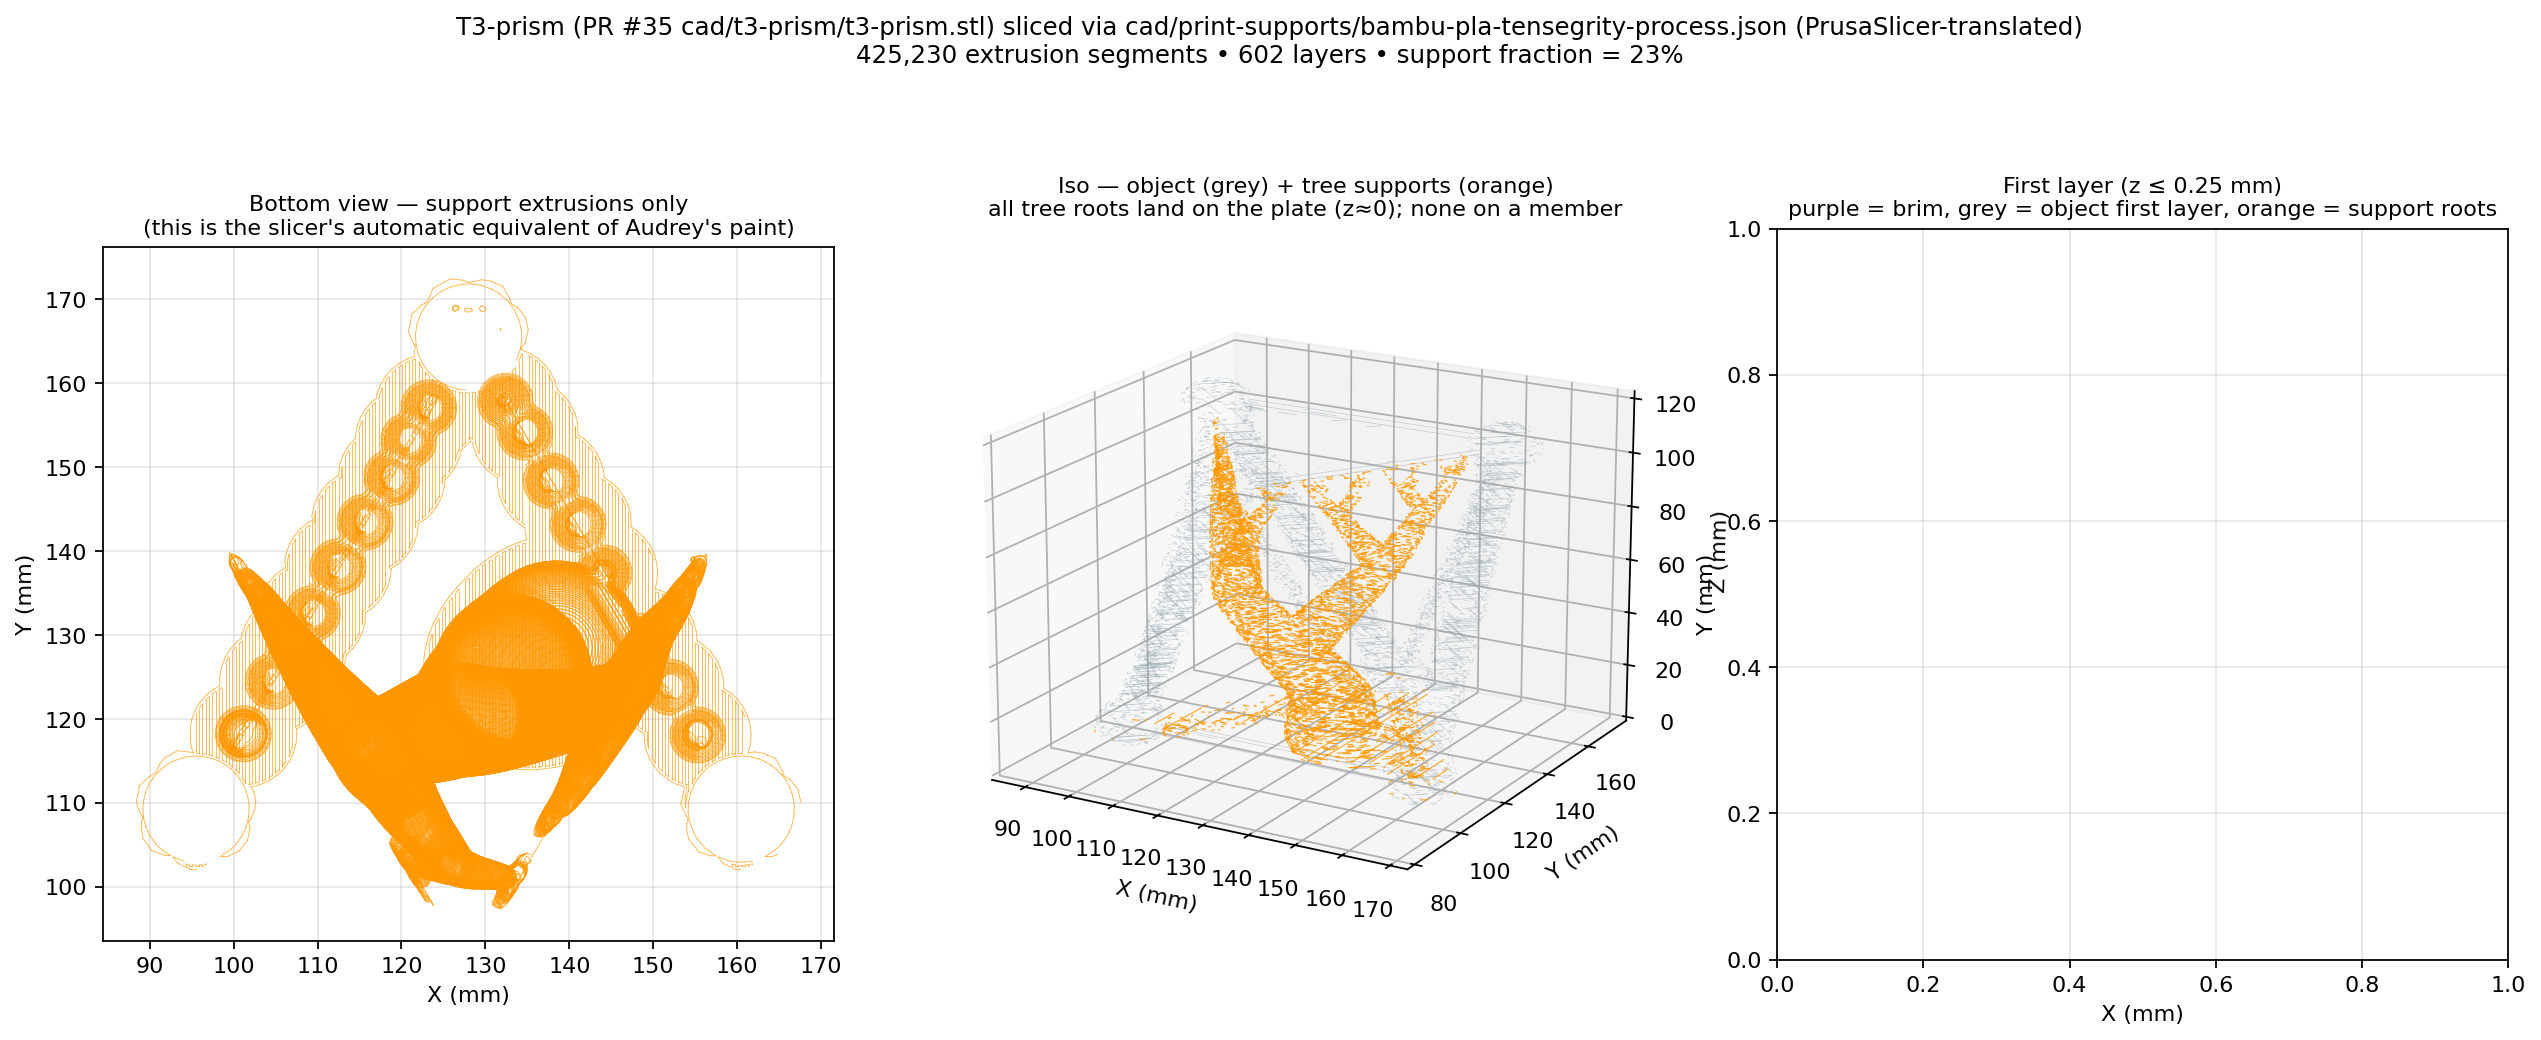
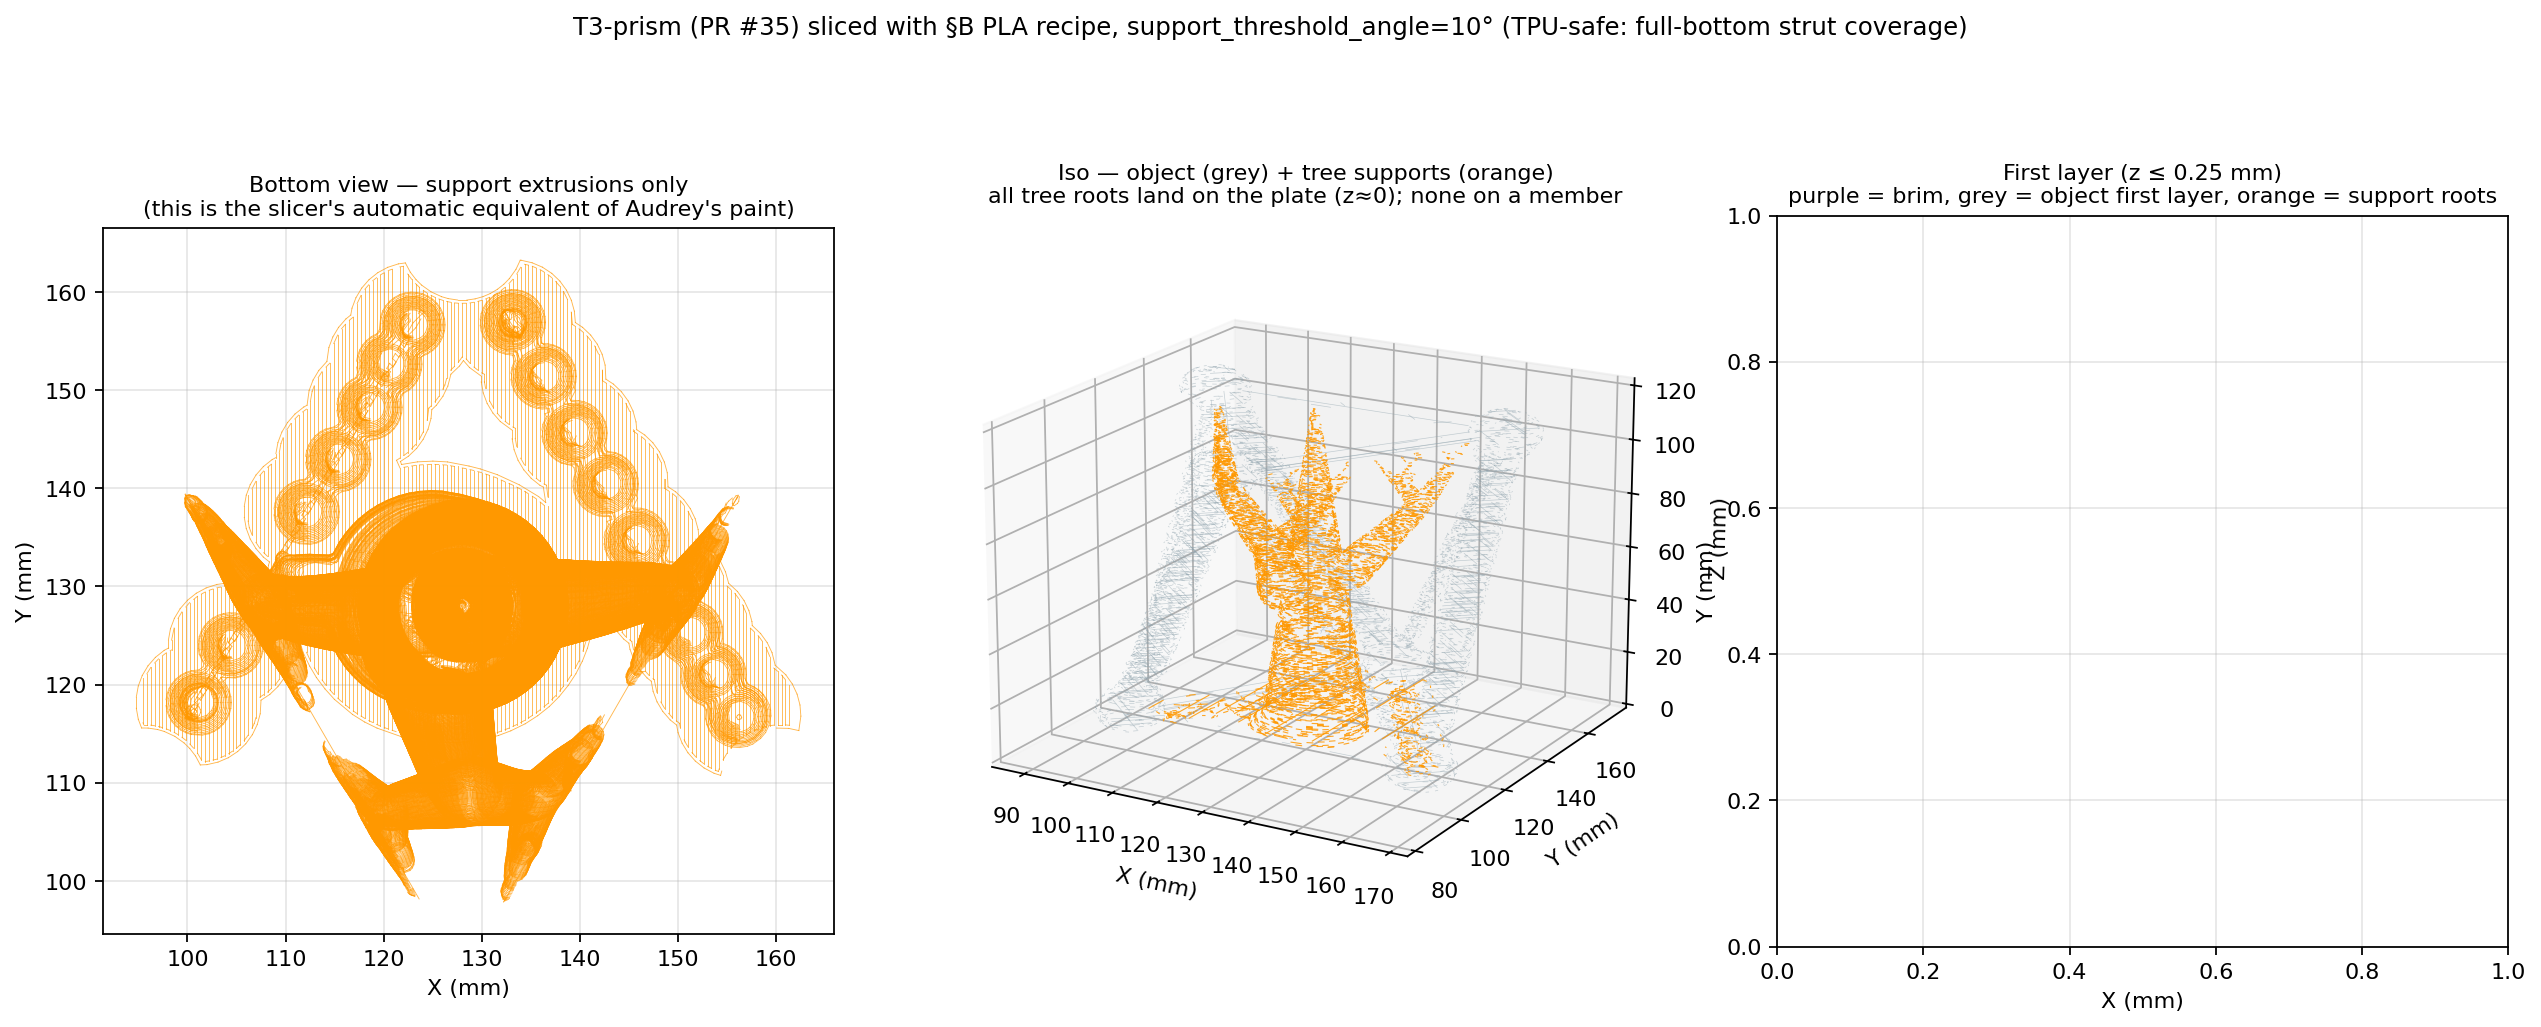
Drop support_threshold_angle 40°→10° for TPU-safe full-bottom strut coverage; re-slice + add before/after comparison panel
Agent-Logs-Url: https://github.com/vertical-cloud-lab/tensegrity-optimization/sessions/67def28e-b528-405b-aaef-3c533f80feba

diff --git a/cad/print-supports/verification/diff_supports.py b/cad/print-supports/verification/diff_supports.py
@@ -1,0 +1,106 @@
+#!/usr/bin/env python3
+"""Side-by-side comparison of two sliced .gcode files (old θ=40 vs new θ=10).
+
+Shows where the lower threshold added supports along the bottom of every
+near-vertical strut. Two panels (bottom-view, supports-only) and a
+difference panel highlighting the *added* support touch-points only.
+"""
+import re, sys
+from pathlib import Path
+import numpy as np
+import matplotlib
+matplotlib.use("Agg")
+import matplotlib.pyplot as plt
+
+OLD, NEW, OUT = sys.argv[1], sys.argv[2], sys.argv[3]
+SUPPORT_TYPES = {"Support material", "Support material interface"}
+
+re_g  = re.compile(r"^G[01]\b")
+re_xy = re.compile(r"\b([XYZEF])(-?\d+\.?\d*)")
+re_ty = re.compile(r"^;TYPE:(.*)$")
+
+def parse_supports(path):
+    """Return Nx6 array of support-extrusion segments (x0,y0,z0,x1,y1,z1)."""
+    x = y = z = 0.0
+    e_prev = 0.0
+    current_type = "Custom"
+    segs = []
+    with open(path) as f:
+        for line in f:
+            m = re_ty.match(line)
+            if m:
+                current_type = m.group(1).strip()
+                continue
+            if not re_g.match(line):
+                continue
+            kv = dict(re_xy.findall(line))
+            nx = float(kv.get("X", x))
+            ny = float(kv.get("Y", y))
+            nz = float(kv.get("Z", z))
+            e = float(kv.get("E", e_prev))
+            if ("E" in kv and e > e_prev and (nx != x or ny != y)
+                    and current_type in SUPPORT_TYPES):
+                segs.append((x, y, z, nx, ny, nz))
+            x, y, z = nx, ny, nz
+            e_prev = e if "E" in kv else e_prev
+    return np.array(segs)
+
+old = parse_supports(OLD)
+new = parse_supports(NEW)
+print(f"old supports: {len(old):>6} segments", file=sys.stderr)
+print(f"new supports: {len(new):>6} segments", file=sys.stderr)
+
+# crude difference: bin old support midpoints onto a 1 mm grid and flag
+# every new segment whose midpoint falls in an empty bin (i.e., the new
+# threshold added support coverage there).
+def midpoints(a):
+    return np.column_stack([(a[:, 0] + a[:, 3]) / 2,
+                            (a[:, 1] + a[:, 4]) / 2,
+                            (a[:, 2] + a[:, 5]) / 2])
+
+cell = 1.0  # mm
+old_mid = midpoints(old)
+new_mid = midpoints(new)
+old_keys = {tuple(int(v) for v in p) for p in (old_mid / cell)}
+added_mask = np.array([tuple(int(v) for v in p) not in old_keys
+                       for p in (new_mid / cell)])
+added = new[added_mask]
+print(f"added (new∖old): {added_mask.sum():>6} segments", file=sys.stderr)
+
+fig, axes = plt.subplots(1, 3, figsize=(16, 5.5))
+
+def plot_bottom(ax, segs, color, title):
+    ax.set_aspect("equal")
+    for x0, y0, _z0, x1, y1, _z1 in segs:
+        ax.plot([x0, x1], [y0, y1], color=color, lw=0.4, alpha=0.65)
+    ax.set_title(title, fontsize=10)
+    ax.set_xlabel("X (mm)")
+    ax.set_ylabel("Y (mm)")
+    ax.grid(True, alpha=0.3)
+
+plot_bottom(axes[0], old, "#ff9800",
+            f"BEFORE — support_threshold_angle = 40°\n"
+            f"{len(old):,} support extrusion segments (PLA-only safe)")
+plot_bottom(axes[1], new, "#ff9800",
+            f"AFTER — support_threshold_angle = 10°\n"
+            f"{len(new):,} support extrusion segments (TPU-safe)")
+# Difference: faint NEW background + bright ADDED overlay
+axes[2].set_aspect("equal")
+for x0, y0, _z0, x1, y1, _z1 in new:
+    axes[2].plot([x0, x1], [y0, y1], color="#cfd8dc", lw=0.3, alpha=0.5)
+for x0, y0, _z0, x1, y1, _z1 in added:
+    axes[2].plot([x0, x1], [y0, y1], color="#d81b60", lw=0.4, alpha=0.8)
+axes[2].set_title(f"DIFFERENCE — added by θ=10° (pink)\n"
+                  f"{added_mask.sum():,} new segments along strut bottoms "
+                  f"(+{100 * added_mask.sum() / max(1, len(old)):.0f}%)",
+                  fontsize=10)
+axes[2].set_xlabel("X (mm)")
+axes[2].set_ylabel("Y (mm)")
+axes[2].grid(True, alpha=0.3)
+
+fig.suptitle("PR #35 T3-prism — effect of support_threshold_angle 40° → 10°\n"
+             "on the §B PLA recipe (same mesh, same recipe, only θ changed)",
+             fontsize=11, y=1.02)
+fig.tight_layout()
+fig.savefig(OUT, dpi=160, bbox_inches="tight")
+print(f"wrote {OUT}", file=sys.stderr)

diff --git a/cad/print-supports/verification/README.md b/cad/print-supports/verification/README.md
@@ -56,15 +56,64 @@ commit `65d0d3f` (`copilot/get-bambu-sliced-print-t3-prism`).
 | ----------------------- | ------------------------------------ |
 | Layers                  | 601                                  |
 | Layer height            | 0.20 mm                              |
-| Extrusion segments      | 425,230 total (96,176 support / 327,553 object / 1,198 brim) |
-| Filament used           | 38.39 cm³ (PLA)                      |
-| Estimated print time    | 6 h 52 m 30 s (normal mode)          |
+| Extrusion segments      | 438,955 total (104,354 support / 333,092 object / 1,207 brim) |
+| Filament used           | 38.93 cm³ (PLA)                      |
+| Estimated print time    | 6 h 54 m 58 s (normal mode)          |
 | Support style           | organic tree (= Bambu `tree(hybrid)`)|
 | Supports on plate only? | yes (`support_material_buildplate_only = 1`) |
+| Overhang threshold      | **10°** (TPU-safe — see below)       |
 | Brim                    | 5 mm outer-only                      |
 | Bridges supported?      | no (`dont_support_bridges = 1`)      |
 
 The support-only bottom view reproduces Audrey's centerline-stripe pattern
-without any manual painting — supports live only under the 9 non-bed-contact
-members, the three bottom-triangle cables bridge unsupported between the
-bed-contact vertices, and tree branches all root on the plate.
+without any manual painting, and after dropping `support_threshold_angle`
+from 40° to 10° (commit responding to PR comment 4523611769) the entire
+down-facing side of every near-vertical strut also gets supported all the
+way to the plate, so the same recipe survives a TPU print of the same
+mesh (TPU sags on any shallow overhang PLA would self-support).
+
+## Why θ=10°? — TPU-safe strut-bottom coverage
+
+The first draft of the recipe used `support_threshold_angle = 40` (~40°
+from vertical). For PLA on the T3-prism that was fine, but it left the
+shallow-overhang under-side of every near-vertical strut completely
+unsupported because tilts of ~25–35° from vertical sit below the
+threshold. TPU 85A (NinjaFlex-class, E ≈ 12 MPa) can't self-support those
+overhangs and would sag.
+
+Dropping the threshold to **10°** flags the entire down-facing surface of
+every tilted member as an overhang, so the tree generator builds branches
+from the plate all the way along each strut's bottom. The added coverage
+shows up clearly in `t3-prism-pr35-threshold-comparison.png`:
+
+| Metric                       | θ = 40° (old) | θ = 10° (new) | Δ        |
+| ---------------------------- | ------------: | ------------: | -------: |
+| Support extrusion segments   | 96,176        | 104,354       | +8.5 %   |
+| Filament                     | 38.39 cm³     | 38.93 cm³     | +1.4 %   |
+| Print time                   | 6 h 52 m 30 s | 6 h 54 m 58 s | +0.6 %   |
+
+Only truly vertical surfaces (< 10° from vertical: the joint-sphere
+overlaps at each vertex and the three bed-contact cones) are still
+skipped, preserving the "do not paint at vertex overlaps" rule there.
+
+To regenerate the comparison panel:
+
+```bash
+# slice once with the (old) θ=40 setting:
+sed 's/^support_material_threshold = 10/support_material_threshold = 40/' \
+    cad/print-supports/verification/prusaslicer-pla-tensegrity.ini \
+    > /tmp/old.ini
+prusa-slicer --slice --load /tmp/old.ini --center 128,128 \
+    --output /tmp/t3-prism-old.gcode /tmp/t3-prism.stl
+
+# slice again with the (new) θ=10 setting:
+prusa-slicer --slice \
+    --load cad/print-supports/verification/prusaslicer-pla-tensegrity.ini \
+    --center 128,128 \
+    --output /tmp/t3-prism.gcode /tmp/t3-prism.stl
+
+# render the side-by-side diff:
+python3 cad/print-supports/verification/diff_supports.py \
+    /tmp/t3-prism-old.gcode /tmp/t3-prism.gcode \
+    cad/print-supports/verification/t3-prism-pr35-threshold-comparison.png
+```

diff --git a/cad/print-supports/README.md b/cad/print-supports/README.md
@@ -51,7 +51,7 @@ Audrey's `tree(manual)` slice).
 | `enable_support`                 | `1`             | turn on supports |
 | `support_type`                   | `tree(hybrid)`  | tree branches under overhangs *and* a thin grid under flat overhangs; equivalent to Audrey's `tree(manual)` once `on_build_plate_only` is set, but driven by the slicer's overhang analysis instead of paint flags |
 | `support_on_build_plate_only`    | `1`             | branches drop to the plate, never onto a member — matches the painted-from-the-bottom-view rule |
-| `support_threshold_angle`        | `40`            | high enough that the three plate-contact vertices and the (near-)vertical strut sections don't get supported (Audrey's "do not paint at the vertex overlaps"), low enough that every horizontal cable does |
+| `support_threshold_angle`        | `10`            | low enough that the entire down-facing side of every tilted strut is flagged as overhang and gets supported all the way to the plate — same recipe must survive TPU (which can't self-support shallow overhangs the way PLA can). At θ=10° only truly vertical surfaces (< 10° from vertical) are skipped, so the joint-sphere overlaps at each vertex are still ignored while the near-vertical strut sections gain full bottom-stripe coverage. |
 | `support_object_xy_distance`     | `0.35`          | leaves a clean gap around each cable so supports peel cleanly |
 | `support_top_z_distance`         | `0.2`           | one layer gap; peels with no scarring on PLA |
 | `support_interface_top_layers`   | `2`             | enough for stable touch-points, still snaps off |
@@ -80,9 +80,14 @@ combination above gives an automated equivalent:
 - `support_on_build_plate_only = 1` forces every tree branch to root at the
   plate, so supports never touch a member from the side or top (Audrey's
   bottom-view-only constraint).
-- `support_threshold_angle = 40` means the slicer doesn't try to support
-  the near-vertical strut sections or the joint-sphere overlaps (Audrey's
-  "do not paint at vertex overlaps" rule).
+- `support_threshold_angle = 10` means the slicer flags the entire
+  down-facing side of every tilted member (struts included) as an
+  overhang, so trees climb from the plate all the way along each strut's
+  bottom. The original draft used θ=40° which left near-vertical struts
+  unsupported — fine for PLA but unsafe for TPU (which sags on any shallow
+  overhang). At θ=10° only true vertical surfaces (joint-sphere overlaps
+  at each vertex, true bed-contact cones) are still skipped, preserving
+  Audrey's "do not paint at vertex overlaps" rule there.
 - `tree_support_tip_diameter = 0.8` combined with
   `tree_support_branch_distance = 2.5` reproduces the ~1/3-of-member-width
   centerline stripe coverage.
